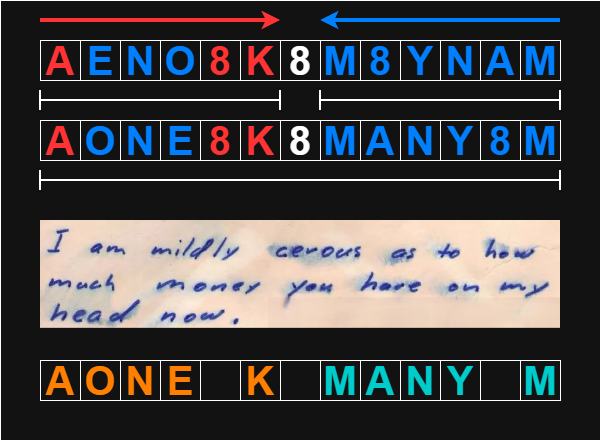
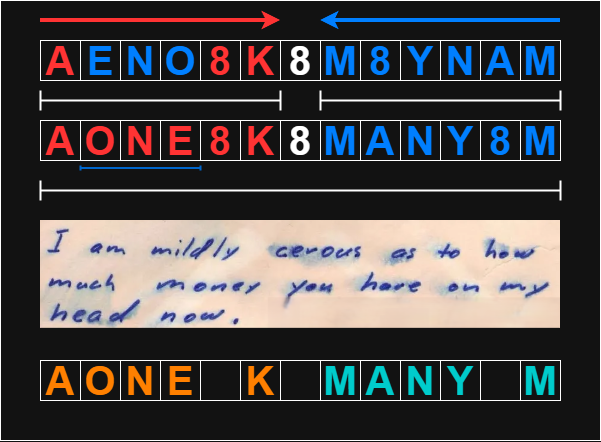
readme work in progress

diff --git a/readme.md b/readme.md
@@ -19,7 +19,7 @@ The O was turned into a crosshair (**⌖**), and the Y was drawn as the Greek Y 
 
 I had this idea for a while already because i thought for such a short cipher even he must have realized that substitution is too much.
 I was convinced that it had to say "MY NAME" and wrote a long unpublished hypothesis.
-It was good that i didn't publish it, because when i thought more about it i realized how many arbitrary manipulations i needed for it.
+It was good that i didn't publish it, because when i thought more on it i realized how many arbitrary manipulations i needed for it.
 Now i put more effort in, to avoid such problem but the idea that crosshair and the Anchor/upside-down-Upsilon 𝚼 are "O" and "Y" stuck, and that is what got me to this here.
 
 #### Result:
@@ -51,7 +51,25 @@ AENO⑧K⑧M⑧YNAM -> \
 AONE⑧K⑧MANY⑧M -> \
 A-ONE_K_MANY_M
 
-## **Where is the name?** 
+## **What about the name?** 
+
+### **Looking closer**
+
+So this leaves the issue that the lead in to the cipher was "my name is--" but you would first suspect the cipher to answer the name question before it gets to the reward.
+Well it actually does, there is something that seems more than a statistical anomaly. 
+In the initial position of the cipher "One" is reversed, the interesting thing is that many contains the word "Any" which would also be reversed in the initial positions.
+Not only that bad both contain an "N" in the middle, "N" is the only symmetric letter in the cipher (not conting the circled 8s).
+Both start 1 letter away from the edge end, so also from the start of their respective sentences.
+So since "One" and "Any" are reversed in thier initial position lets read them in the direction that makes them readable, Right to left.
+You get "ANYONE", very interestingly, if you take the cipher and turn it 90° clockwise, the previous sentence , cipher, next senteces first letter create "I AM" with the cipher being the center.
+
+first letter| rest
+-|-
+M|My Name is--
+A|AEN⌖⑧K⑧M⑧۸NAM
+I|I am mildly cerous how much money...
+
+
 
 ### **The punch-hole card**
 
